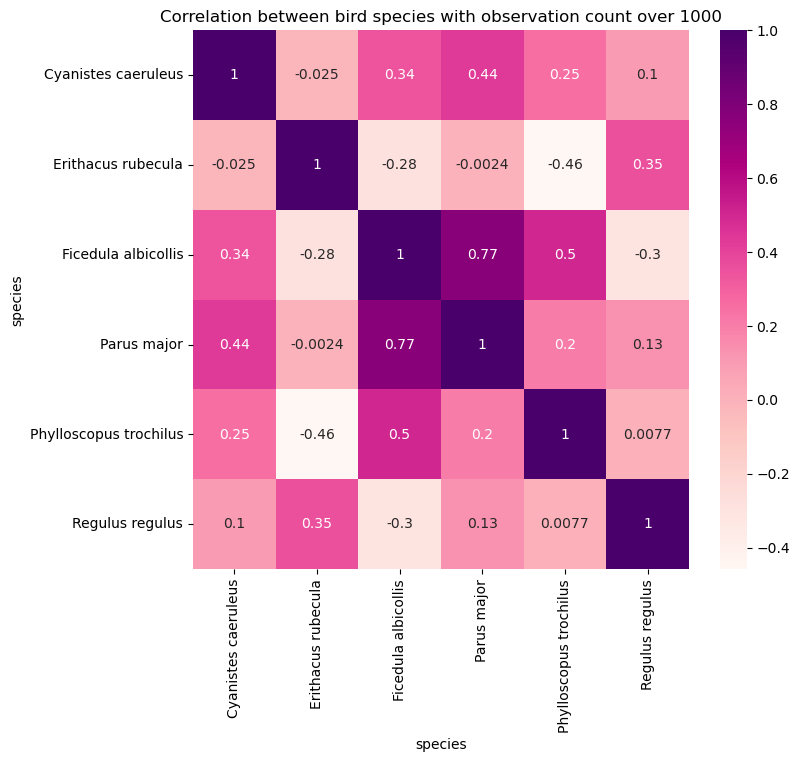
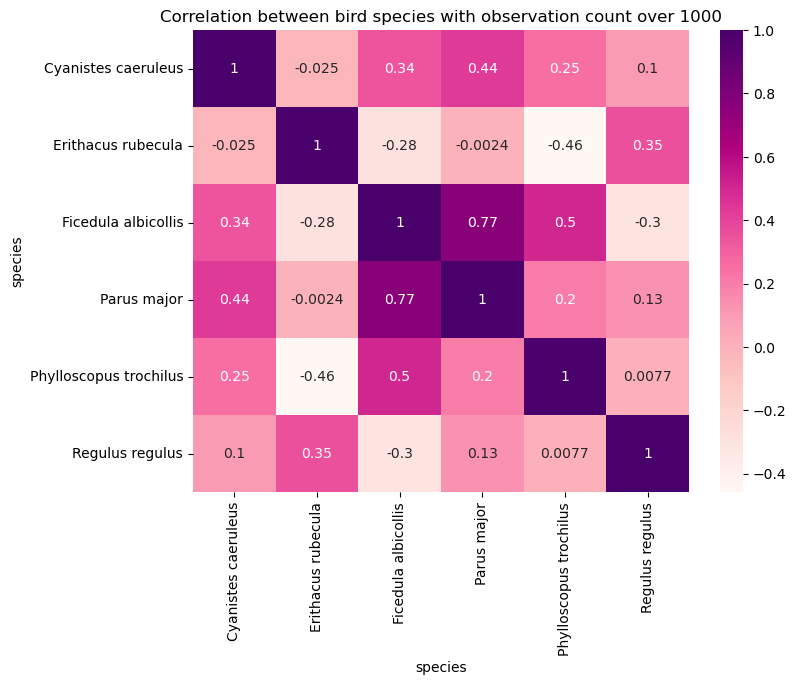
image size

diff --git a/index.html b/index.html
@@ -216,7 +216,7 @@ Kalmar and Gotland, respectively. Note that while the range of the y-axis for Pl
           So I have made a correlation table over the distribution of the comun birds that live on my islands. 
           
           
-          <embed type="text/html" src="img/correlation.png" width="100%" height="650"/>
+          <embed type="text/html" src="img/correlation.png" width="100%" height="950"/>
   
           <p class="text">
           So, Regulus Regulus is the most comun bird. You proaply know it as the goldcrest. It has an observation count of 294 804 for 10 years.
